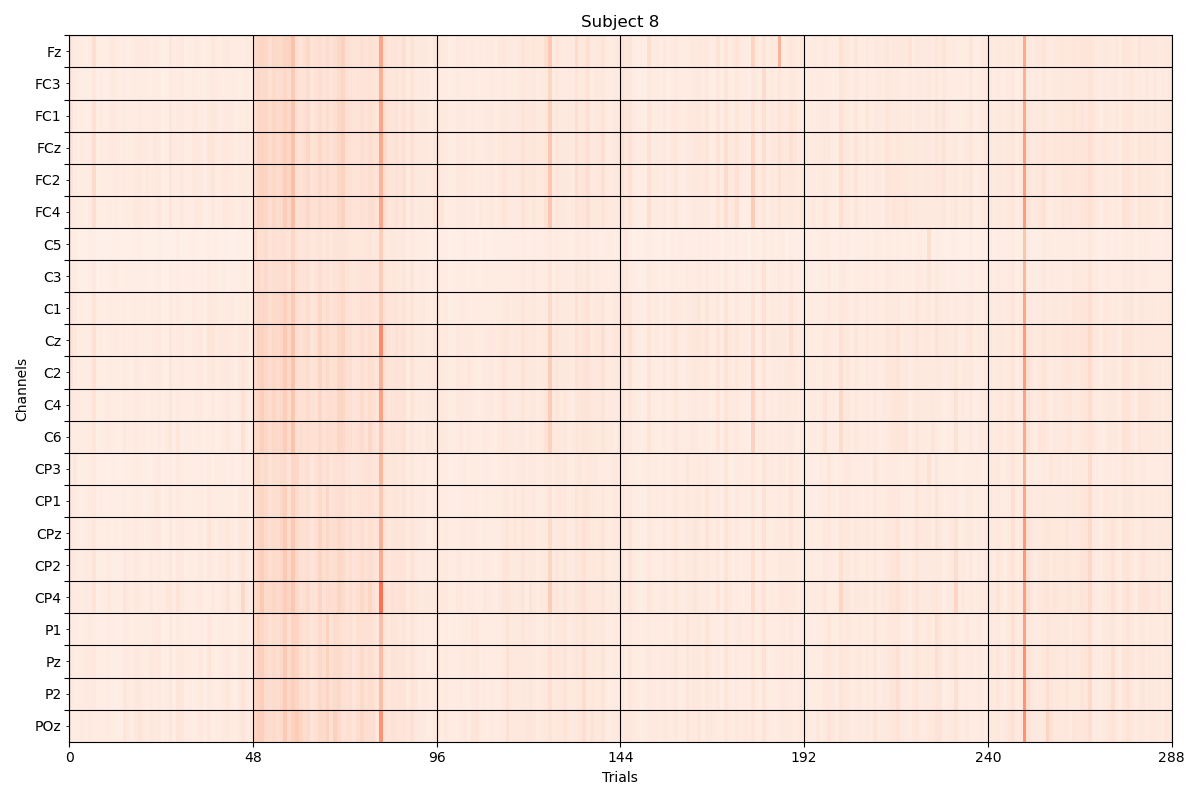
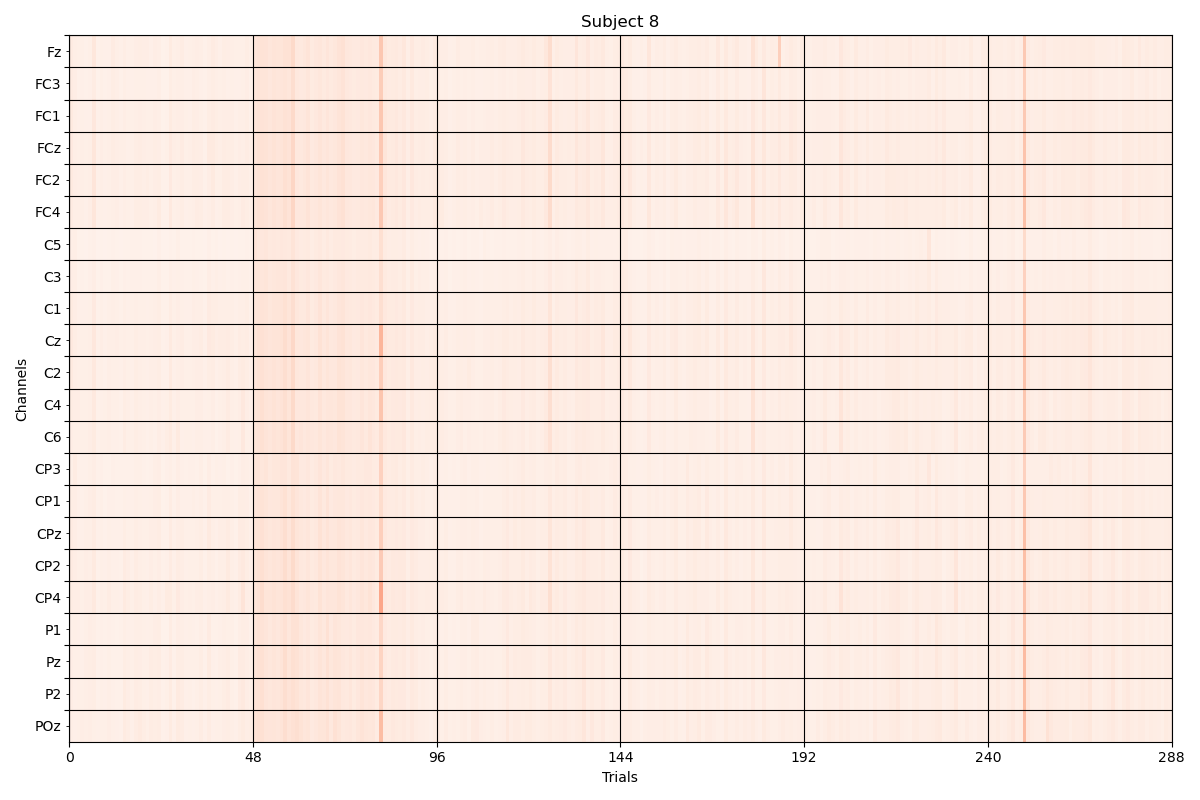
Update d2a recon error images

diff --git a/analysis_script/d2a_recon_error_image.py b/analysis_script/d2a_recon_error_image.py
@@ -20,7 +20,7 @@ subj_list = [1, 2, 3, 4, 5, 6, 7, 8, 9]
 plot_config = dict(
     figsize = (12, 8),
     min_value = 0,
-    max_value = 50,
+    max_value = 75,
     # colormap = 'RdYlGn_r',
     colormap = 'Reds',
     save_fig = True,
